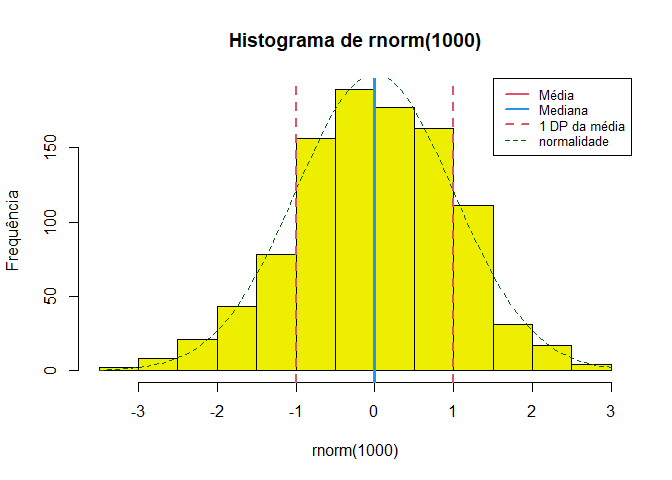
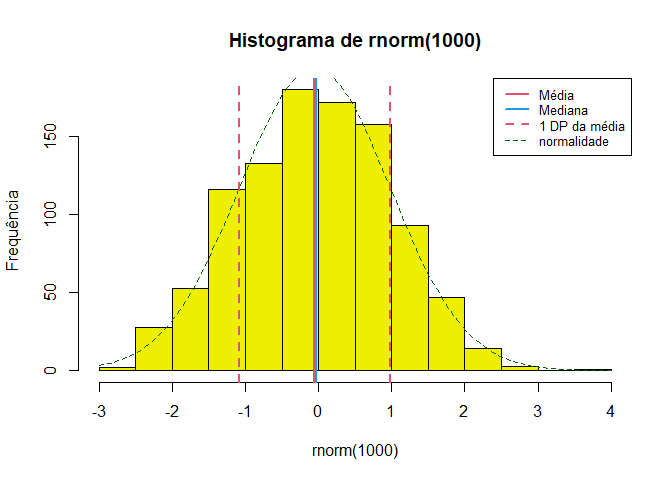
Atualiza documentação

diff --git a/README.md b/README.md
@@ -114,134 +114,7 @@ bolero(factor(obitos$sexo, levels = c("masc", "fem")), externas, dnn = c("sexo",
 #> =============================================================
 ```
 
-### Demonstração do intervalo de confiança
-
-``` r
-demonstra_IC(rnorm(384), n = 50000, r = 100)
-#> $mediapop
-#> [1] -0.02558041
-#> 
-#> $medias
-#>           media      liminf        limsup fora
-#> 1   -0.02826711 -0.03783337 -0.0187008583    2
-#> 2   -0.03074010 -0.04032129 -0.0211589069    2
-#> 3   -0.03381670 -0.04339921 -0.0242341841    2
-#> 4   -0.02815659 -0.03771497 -0.0185982178    2
-#> 5   -0.02273441 -0.03234118 -0.0131276457    2
-#> 6   -0.02564140 -0.03519485 -0.0160879504    2
-#> 7   -0.02215559 -0.03180065 -0.0125105283    2
-#> 8   -0.02318145 -0.03275338 -0.0136095241    2
-#> 9   -0.02489271 -0.03445909 -0.0153263284    2
-#> 10  -0.02088911 -0.03049352 -0.0112847094    2
-#> 11  -0.02421421 -0.03378738 -0.0146410525    2
-#> 12  -0.02072666 -0.03035711 -0.0110962227    2
-#> 13  -0.02903961 -0.03860653 -0.0194726802    2
-#> 14  -0.02065135 -0.03020894 -0.0110937641    2
-#> 15  -0.01483582 -0.02439816 -0.0052734694    1
-#> 16  -0.03318470 -0.04278793 -0.0235814659    2
-#> 17  -0.02896597 -0.03857842 -0.0193535172    2
-#> 18  -0.02034780 -0.02990394 -0.0107916717    2
-#> 19  -0.02735608 -0.03694796 -0.0177642117    2
-#> 20  -0.02292894 -0.03254153 -0.0133163460    2
-#> 21  -0.03190996 -0.04147761 -0.0223423050    2
-#> 22  -0.02764317 -0.03721625 -0.0180701022    2
-#> 23  -0.02503601 -0.03464549 -0.0154265344    2
-#> 24  -0.01827733 -0.02780208 -0.0087525798    2
-#> 25  -0.02587109 -0.03546566 -0.0162765186    2
-#> 26  -0.02006823 -0.02969607 -0.0104403882    2
-#> 27  -0.02968156 -0.03925473 -0.0201083851    2
-#> 28  -0.03291392 -0.04251107 -0.0233167746    2
-#> 29  -0.02432042 -0.03387558 -0.0147652634    2
-#> 30  -0.02456049 -0.03414617 -0.0149747996    2
-#> 31  -0.03025607 -0.03984864 -0.0206634914    2
-#> 32  -0.02696007 -0.03652968 -0.0173904628    2
-#> 33  -0.02587577 -0.03546607 -0.0162854687    2
-#> 34  -0.02886764 -0.03846032 -0.0192749566    2
-#> 35  -0.02419683 -0.03379217 -0.0146014903    2
-#> 36  -0.02868261 -0.03823745 -0.0191277573    2
-#> 37  -0.03147390 -0.04110616 -0.0218416457    2
-#> 38  -0.02513694 -0.03466964 -0.0156042524    2
-#> 39  -0.02406348 -0.03357807 -0.0145488873    2
-#> 40  -0.02111787 -0.03072765 -0.0115080853    2
-#> 41  -0.02199466 -0.03156590 -0.0124234155    2
-#> 42  -0.02176218 -0.03137145 -0.0121529038    2
-#> 43  -0.02361736 -0.03317819 -0.0140565353    2
-#> 44  -0.02212472 -0.03171188 -0.0125375519    2
-#> 45  -0.02423834 -0.03381890 -0.0146577741    2
-#> 46  -0.02168961 -0.03128477 -0.0120944519    2
-#> 47  -0.03098832 -0.04058020 -0.0213964451    2
-#> 48  -0.01689730 -0.02641644 -0.0073781564    2
-#> 49  -0.02938265 -0.03895255 -0.0198127643    2
-#> 50  -0.02103289 -0.03061973 -0.0114460433    2
-#> 51  -0.02272833 -0.03229113 -0.0131655394    2
-#> 52  -0.01714588 -0.02671538 -0.0075763730    2
-#> 53  -0.02394079 -0.03352060 -0.0143609880    2
-#> 54  -0.03203745 -0.04163822 -0.0224366890    2
-#> 55  -0.02519687 -0.03476142 -0.0156323176    2
-#> 56  -0.02908324 -0.03864439 -0.0195220847    2
-#> 57  -0.03500309 -0.04457834 -0.0254278297    2
-#> 58  -0.03183195 -0.04142391 -0.0222399915    2
-#> 59  -0.02113124 -0.03073149 -0.0115309942    2
-#> 60  -0.02221632 -0.03177871 -0.0126539331    2
-#> 61  -0.02493913 -0.03450479 -0.0153734600    2
-#> 62  -0.02321607 -0.03277831 -0.0136538252    2
-#> 63  -0.01950117 -0.02906673 -0.0099356226    2
-#> 64  -0.02519188 -0.03478129 -0.0156024781    2
-#> 65  -0.02676006 -0.03633491 -0.0171852207    2
-#> 66  -0.03486073 -0.04443292 -0.0252885443    2
-#> 67  -0.02360444 -0.03322933 -0.0139795450    2
-#> 68  -0.02512890 -0.03472753 -0.0155302670    2
-#> 69  -0.02540541 -0.03498754 -0.0158232818    2
-#> 70  -0.03361970 -0.04318704 -0.0240523606    2
-#> 71  -0.02460354 -0.03418007 -0.0150270086    2
-#> 72  -0.01039614 -0.02001940 -0.0007728877    1
-#> 73  -0.02578591 -0.03538030 -0.0161915249    2
-#> 74  -0.03206108 -0.04161577 -0.0225063967    2
-#> 75  -0.02551838 -0.03508160 -0.0159551649    2
-#> 76  -0.02168631 -0.03125126 -0.0121213577    2
-#> 77  -0.02528772 -0.03486622 -0.0157092156    2
-#> 78  -0.02432610 -0.03390385 -0.0147483439    2
-#> 79  -0.02690850 -0.03658604 -0.0172309700    2
-#> 80  -0.02898647 -0.03857706 -0.0193958797    2
-#> 81  -0.02716724 -0.03677069 -0.0175637956    2
-#> 82  -0.02619826 -0.03575624 -0.0166402682    2
-#> 83  -0.02838876 -0.03798376 -0.0187937570    2
-#> 84  -0.01603168 -0.02564139 -0.0064219763    2
-#> 85  -0.02183454 -0.03139357 -0.0122755139    2
-#> 86  -0.03361377 -0.04320777 -0.0240197792    2
-#> 87  -0.01913483 -0.02868795 -0.0095817105    2
-#> 88  -0.02748166 -0.03708642 -0.0178769058    2
-#> 89  -0.01732111 -0.02685876 -0.0077834662    2
-#> 90  -0.02827575 -0.03784953 -0.0187019823    2
-#> 91  -0.02093529 -0.03050153 -0.0113690476    2
-#> 92  -0.02390857 -0.03349293 -0.0143242064    2
-#> 93  -0.02874480 -0.03834701 -0.0191425860    2
-#> 94  -0.02158814 -0.03115632 -0.0120199548    2
-#> 95  -0.02568117 -0.03524854 -0.0161137964    2
-#> 96  -0.02246004 -0.03203007 -0.0128900053    2
-#> 97  -0.01995018 -0.02950316 -0.0103972020    2
-#> 98  -0.02818062 -0.03777353 -0.0185876977    2
-#> 99  -0.03090711 -0.04044751 -0.0213667047    2
-#> 100 -0.02590038 -0.03550961 -0.0162911441    2
-#> 
-#> $grafico
-```
-
-<img src="man/figures/README-unnamed-chunk-5-1.png" width="100%" />
-
-    #> 
-    #> $teste.t
-    #> 
-    #>  One Sample t-test
-    #> 
-    #> data:  medias
-    #> t = 10.916, df = 399, p-value < 2.2e-16
-    #> alternative hypothesis: true mean is not equal to 0
-    #> 95 percent confidence interval:
-    #>  0.3903229 0.5617995
-    #> sample estimates:
-    #> mean of x 
-    #> 0.4760612
+<!-- ### Demonstração do intervalo de confiança -->
 
 ### Descrição univariada
 
@@ -253,14 +126,14 @@ descreve(rnorm(1000))
 
     #> rnorm(1000) :  1000  observações 
     #> 
-    #> Válidos: 1000     Missings: 0     Soma: 1.65 
-    #> Menor: -3.21  Maior: 2.87     Amplitude: 6.08
-    #> Média: 0  DP: 1   CV(%): 60419.89
-    #> Assimetria: -0.13     Curtose(real): 2.95
+    #> Válidos: 1000     Missings: 0     Soma: -49.02 
+    #> Menor: -3     Maior: 3.55     Amplitude: 6.55
+    #> Média: -0.05  DP: 1.03    CV(%): 2096.73
+    #> Assimetria: -0.03     Curtose(real): 2.66
     #> Quantis:
     #>  2.5%    5%   25%   50%   75%   95% 97.5% 
-    #> -2.06 -1.70 -0.63  0.01  0.68  1.52  1.84 
-    #>        IIQ: 1.3
+    #> -2.03 -1.80 -0.78 -0.03  0.69  1.59  1.92 
+    #>        IIQ: 1.48
     histobox(rnorm(1000))
 
 <img src="man/figures/README-unnamed-chunk-6-2.png" width="100%" />
